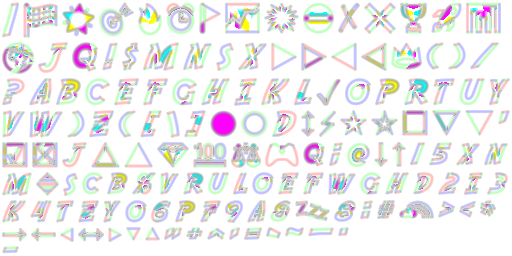
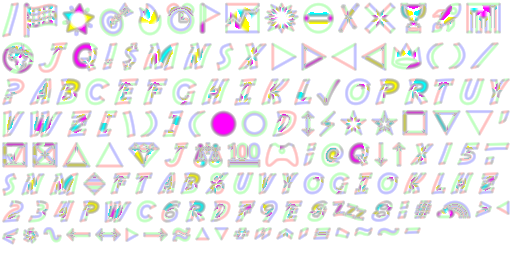
Add code points to the font

Changed region(s): [[0.0, 0.4062, 1.0, 1.0]]

diff --git a/font/msdf-atlas-gen.py b/font/msdf-atlas-gen.py
@@ -13,7 +13,7 @@ from urllib.request import urlopen
 
 EXE_NAME = "msdf-atlas-gen.exe"
 DOWNLOAD_URL = "https://github.com/Chlumsky/msdf-atlas-gen/releases/download/v1.3/msdf-atlas-gen-1.3-win64.zip"
-CHARSET_SYMBOLS = "↑↓←→↔↕★☆✓✗●○▴▾◂▸▲▼◀▶△▽◁▷☐☑☒🗹🗷⏰💎🔹⚡⛔🏁🎮🏆🚀💥🔥⚖💤❌🌟💯📈🌈🎯📊🚩🌍👑🥇🏅🕹"
+CHARSET_SYMBOLS = "⁓∿≈↑↓←→↔↕★☆✓✗●○▴▾◂▸▲▼◀▶△▽◁▷☐☑☒🗹🗷⏰💎🔹⚡⛔🏁🎮🏆🚀💥🔥⚖💤❌🌟💯📈🌈🎯📊🚩🌍👑🥇🏅🕹"
 
 
 def download_file(url: str, dest: Path) -> None:
